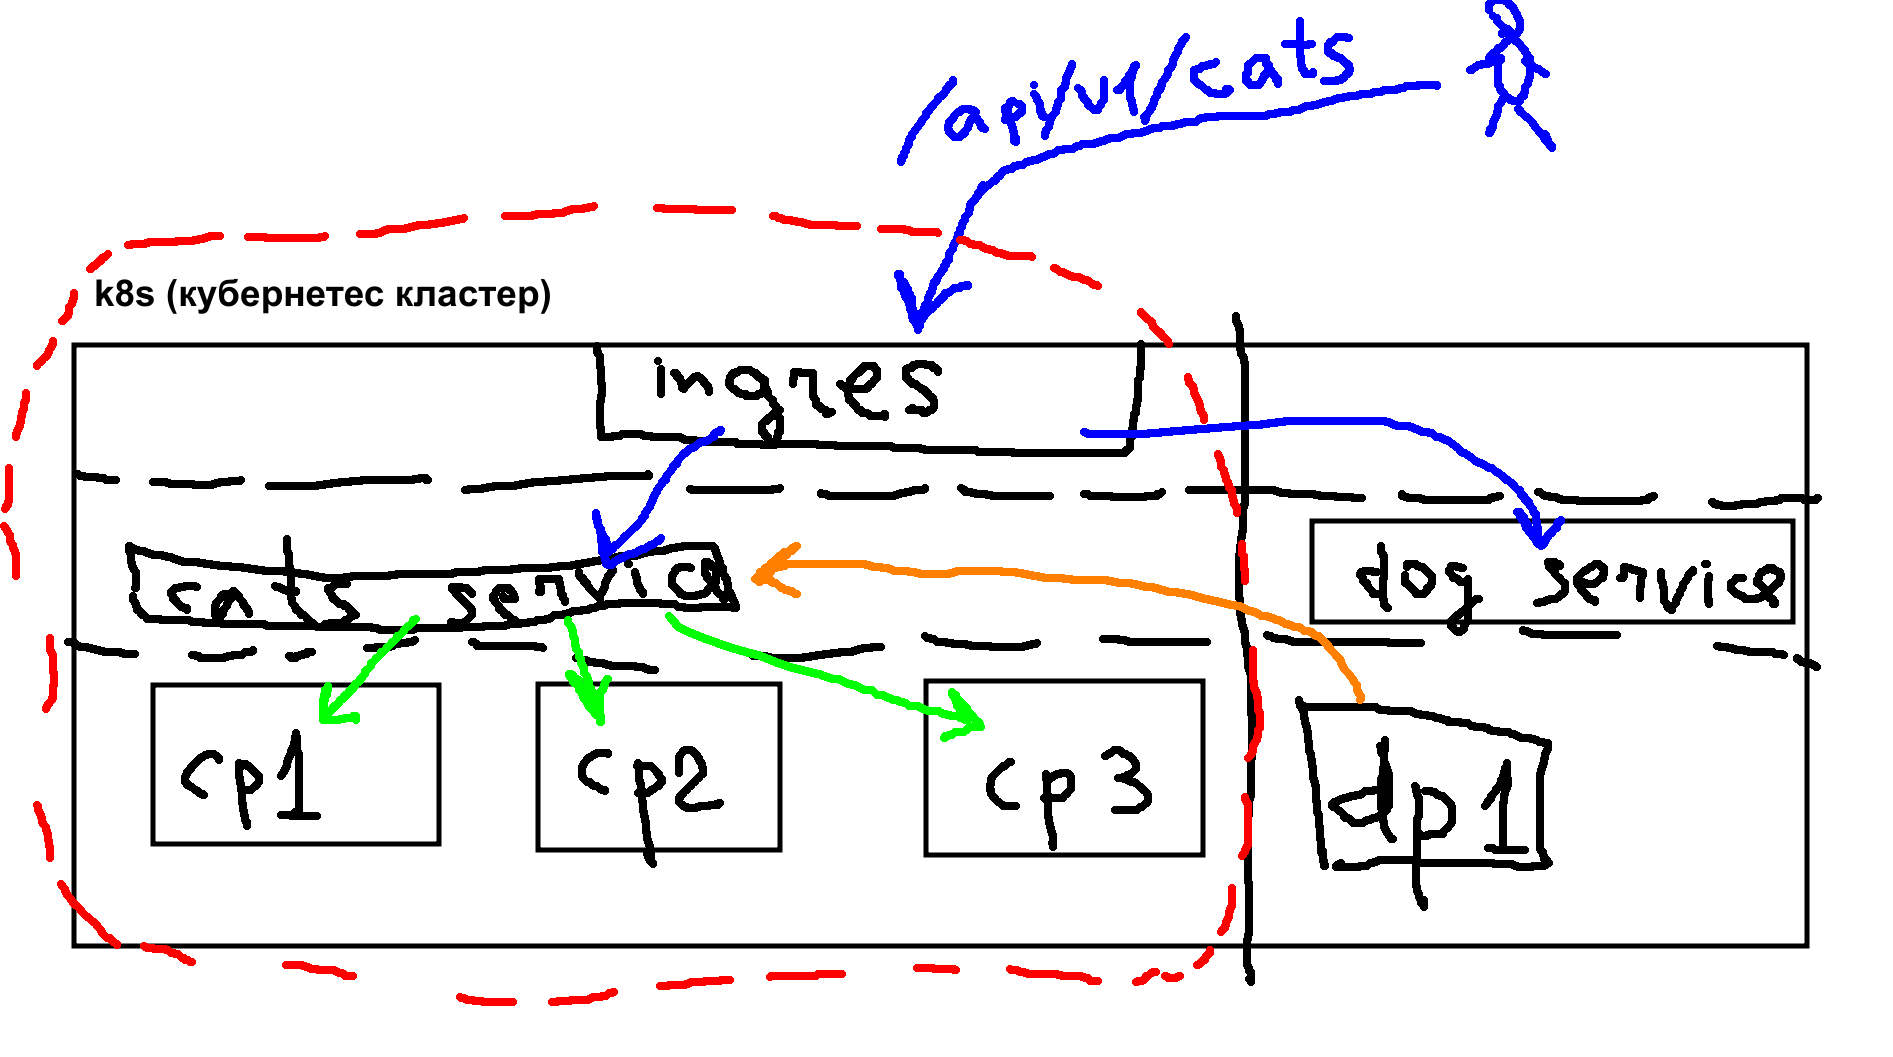
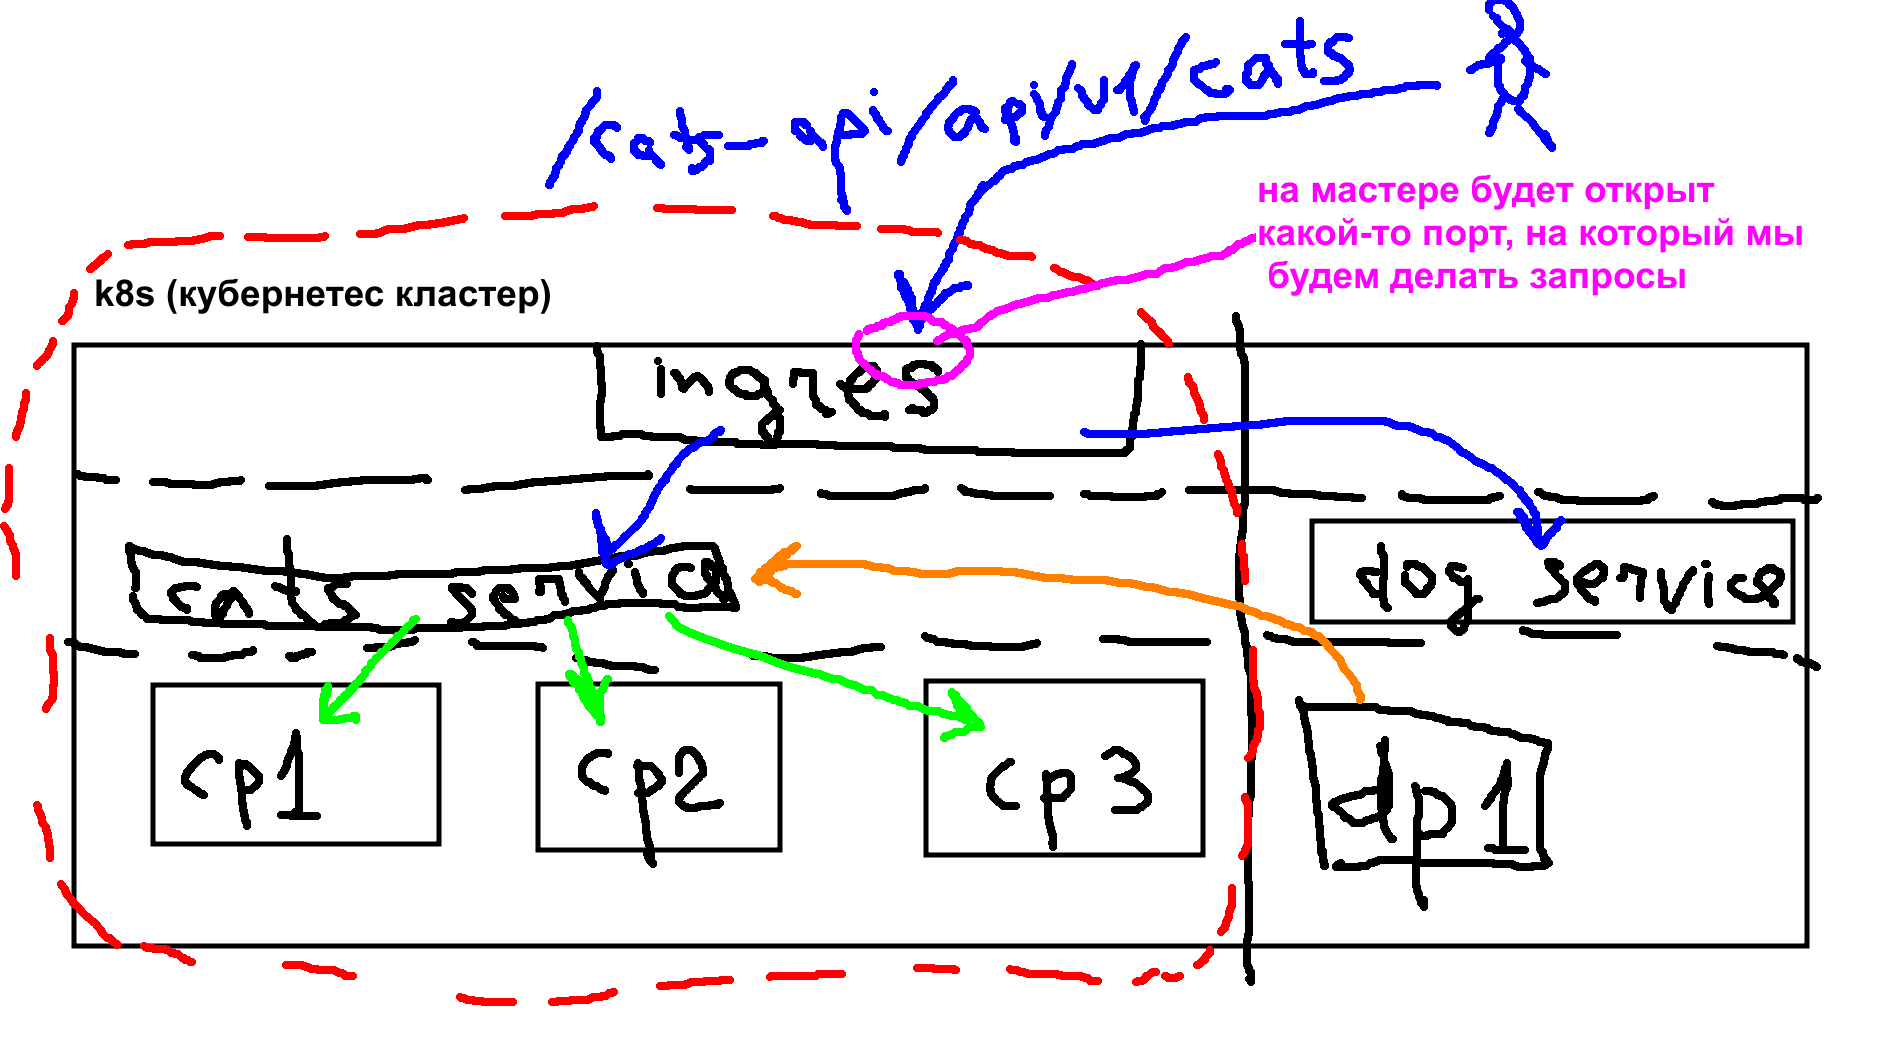
вроде всё работает

diff --git a/README.md b/README.md
@@ -129,7 +129,9 @@ Kind - то эмулятор кубернетеса.
 
 curl -Lo ./kind https://kind.sigs.k8s.io/dl/v0.11.1/kind-linux-amd64
 chmod +x ./kind
-mv ./kind ./my_kind/kind
+sudo mv ./kind /usr/local/bin/kind
+
+kind version  => kind v0.11.1 go1.16.4 linux/amd64
 
 3. Сначала нарисуем, что мы собираемся сделать:
 
@@ -186,5 +188,250 @@ dog pod 1 - dp1
 
 4. Теперь осуществим всё это на практике (01:08:00).
 
-Сначала установим такую утилиту как
+Сначала установим такую утилиту kubectl (это клиент кубернетеса):
+curl -LO https://storage.googleapis.com/kubernetes-release/release/v1.23.0/bin/linux/amd64/kubectl
+chmod +x ./kubectl
 
+Переместите двоичный файл в директорию из переменной окружения PATH:
+sudo mv ./kubectl /usr/local/bin/kubectl
+
+kubectl version --client
+
+Теперь установим ingres plugin
+https://kind.sigs.k8s.io/docs/user/ingress/
+Как запустить kind чтобы на него можно было потом легко установить ingres plugin
+По данному урлу видим пример конфига.
+Создаем конфиг kind-config.yaml
+
+Мы видим что в нашем kind-конфиге кластер:
+kind: Cluster
+
+версия:
+apiVersion: kind.x-k8s.io/v1alpha4
+
+Далее смотрим те ноды на которых будет запущено наше приложение:
+nodes:
+
+Нода control-plane это как раз **мастер-нода**.
+
+Далее конфигурация для kind-а:
+
+    kubeadmConfigPatches:
+                - |
+                    kind: InitConfiguration
+                    nodeRegistration:
+                      kubeletExtraArgs:
+                        node-labels: "ingress-ready=true"
+                    
+чтобы всё получилось с ingres-ом.
+
+Далее мы на мастер-ноде прокидываем некие порты чтобы как раз была такая
+единая точка входа:
+
+     extraPortMappings:
+            -   containerPort: 80
+                hostPort: 8888
+                protocol: TCP
+            
+т.е. на мастере будет открыт какой-то порт, на который мы
+будем делать запросы.
+
+kind delete cluster => Deleting cluster "kind" ...
+на всякий случай. Вдруг уже был создан ранее какой-то kind-кластер.
+
+Еще сделаем 
+    -   role: worker
+    -   role: worker
+    -   role: worker
+т.е. будет 1 мастер и 3 воркера.
+
+kind create cluster --config kind-config.yaml
+В итоге кластер создался (сюда скриншот).
+
+kind готов, теперь хочу Ingress NGINX плагин
+https://kind.sigs.k8s.io/docs/user/ingress/
+команда которая ставит этот плагин:
+kubectl apply -f https://raw.githubusercontent.com/kubernetes/ingress-nginx/main/deploy/static/provider/kind/deploy.yaml
+
+Далее команда
+kubectl wait --namespace ingress-nginx \
+  --for=condition=ready pod \
+  --selector=app.kubernetes.io/component=controller \
+  --timeout=90s
+убедимся что всё ок => pod/ingress-nginx-controller-59cbb6ccb6-7xkgr condition met (ingress поставился)
+
+Далее начнём с нижнего уровня, который связан с подами. Посмотрим как сделать конфиг, чтобы кубернетес-кластер нас
+понял и запустил наше приложение в 3 экземплярах.
+
+Гуглим "kubernetes deployment example"
+Идём сюда: https://kubernetes.io/docs/concepts/workloads/controllers/deployment/ и тут копируем пример конфига.
+Deployment - это как раз та сущность кубернетеса, которая отвечает за поды. И описав деплоймент мы можем
+описать какие поды в скольки экземплярах нам нужны.
+
+Создадим папку k8s и в неё будем складывать все конфиги связанные 
+с кубернетесом. Сперва создадим deployment.yaml и вставляем сюда пример конфига.
+Видим что эта сущность Деплоймент:
+kind: Deployment
+
+Далее
+kubectl apply -f k8s/deployment.yaml
+=> deployment.apps/cats-api-deployment created
+
+kubectl get pods
+посмотреть запущенные поды
+
+Чтобы мониторить (отслеживать в реальном времени) нужен флаг --watch
+kubectl get pods --watch
+
+это был самый нижний уровень (поды).
+
+Далее перейдём к сервису.
+гуглим "kubernetes service example"
+https://kubernetes.io/docs/concepts/services-networking/service/
+
+скопипастим пример и поменяем чуть чуть. Создаём в k8s service.yaml и вставляем туда и поменяем теперь.
+
+Видим что контейнер запустился и упал с ошибкой.
+Посмотрим ошибку:
+kubectl logs cats-api-deployment-58b69bb468-k88sq
+
+Вижу ошибку "Caused by: org.postgresql.util.PSQLException: Connection to localhost:15432 refused. Check that
+the hostname and port are correct and that the postmaster is accepting TCP/IP connections."
+
+
+надо добавить environment переменную
+опять иду в deployment.yaml
+добавляем блок env
+                    env:
+                        -   name: DATASOURCE_HOST
+                            value: 192.168.1.35
+                            
+Далее опять
+kubectl apply -f k8s/deployment.yaml
+kubectl get pods --watch
+они пытаются рестартануться
+
+Остановим их:
+kubectl delete pods --all
+=> все поды удалены
+
+Не неверно. Надо было удалить не поды а Деплоймент. Потому что деплоймент следит
+за тем, чтобы было 3 пода. И если это нарушается то он пытается восстановить это.
+
+Пишу
+kubectl delete deployments --all
+=> deployment.apps "cats-api-deployment" deleted
+
+Далее
+kubectl apply -f k8s/deployment.yaml
+=> deployment.apps/cats-api-deployment created
+
+Потом
+kubectl get pods --watch
+
+Теперь смотрю логи:
+kubectl logs cats-api-deployment-869476485d-6ngzx
+=> видно что всё запустилось и всё ок.
+
+Мы можем больше: мы можем пробросить порт
+kubectl port-forward cats-api-deployment-869476485d-6ngzx 8899:8081  (порт на машине и порт внутри контейнера)
+
+теперь в браузере открываю http://localhost:8899/api/v1/cat
+и вижу в браузере наших котов.
+
+Т.е. контейнер запустился , всё отлично.
+
+Теперь ещё убедимся что их 3 контейнера:
+kubectl get pods
+
+Т.е. все наши 3 пода работают.
+
+### Пойдём дальше и применим наш сервис, который уже написали
+
+kubectl apply -f k8s/service.yaml
+=> service/cats-api-service created
+
+kubectl get service
+вижу свой сервис cats-api-service 
+
+           NAME               TYPE        CLUSTER-IP     EXTERNAL-IP   PORT(S)   AGE
+           cats-api-service   ClusterIP   10.96.112.31   <none>        80/TCP    94s
+           kubernetes         ClusterIP   10.96.0.1      <none>        443/TCP   95m
+
+
+Тепреь сделаем конфиг с ингрессом:
+посмотрим тут https://kind.sigs.k8s.io/docs/user/ingress/
+скопипастим и создадим файл ingress.yaml
+
+Это будет единая точка входа в наш кластер. И потенциально это могут быть не только коты. Назову
+name: my-ingress
+
+Теперь применим этот конфиг:
+kubectl apply -f k8s/ingress.yaml
+=> ingress.networking.k8s.io/my-ingress created
+
+теперь посмотрим в файл kind-config.yaml
+hostPort: 8888
+теперь пойдем на 8888 и посмотрим кто нас ждёт на cats-api
+Идём http://localhost:8888/cats-api/api/v1/cat
+Видим
+
+           Whitelabel Error Page
+           This application has no explicit mapping for /error, so you are seeing this as a fallback.
+           
+           Sun Mar 06 10:53:20 GMT 2022
+           There was an unexpected error (type=Not Found, status=404).
+
+404 потому что к путю теперь добавлен cats-api
+Как это быстро пофиксить? Идем в deployment.yaml и скажем нашему приложению чтобы оно слушало нас
+начиная с cats-api. Для этого добавим ещё одну переменную окружения, которая
+называется spring.mvc.servlet.path
+т.е с этого пути должно стартовать наше приложение.
+
+                        -   name: spring.mvc.servlet.path
+                            value: /cats-api
+
+Обновим  наши поды 
+kubectl apply -f k8s/deployment.yaml
+=> deployment.apps/cats-api-deployment configured
+
+Проверим что с подами всё хорошо:
+kubectl get pods
+видим что старые поды удалены, новые поднялись (имена другие)
+
+Тепепь опять открываем
+http://localhost:8888/cats-api/api/v1/cat
+
+и видим список котов
+[{"id":"bfe41dd1-38ba-4d29-9549-c199cb5b9300","name":"Murzik fon Cat","birthDate":"2020-04-15","createdAt":"2022-03-06T11:41:53.678806"},{"id":"465019f6-bdde-4936-a052-23b5bcfe5821","name":"Barsik van der Dog","birthDate":"2020-05-21","createdAt":"2022-03-06T11:42:39.356039"}]
+
+Т.е мы в итоге проходим полный путь:
+- человечек пришёл и сделал такой запрос /cats-api/api/v1/cat
+- и у него нагрузка балансируется, и всё работает
+- я как клиент даже не знаю, в какой из 3 подов отправился наш запрос.
+- очень удобно так организовывать масштабирование.
+
+
+#### Попробуем с этим немножко поиграться.
+
+Например в deployment.yaml поменяем 
+replicas: 10
+т.е. 10 инстансов.
+
+Если бы мы это делали без кубернетеса то это было бы очень тяжело.
+
+Говорим применить
+kubectl apply -f k8s/deployment.yaml
+=> deployment.apps/cats-api-deployment configured
+
+Теперь посмотрим
+kubectl get pods
+вижу все 10 штук
+
+далее иду
+http://localhost:8888/cats-api/api/v1/cat
+
+и вижу что всё работает.
+
+### Что я использовал:
+- [Пишем Spring Boot микросервис для деплоя в Kubernetes](https://www.youtube.com/watch?v=KPLJ0i5Ocws)
